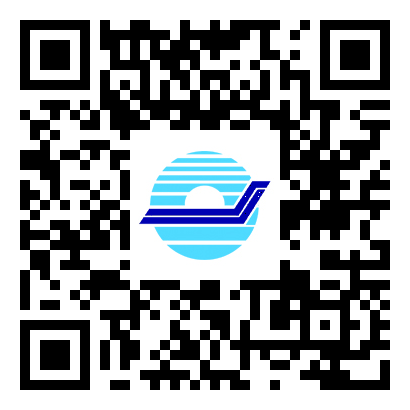
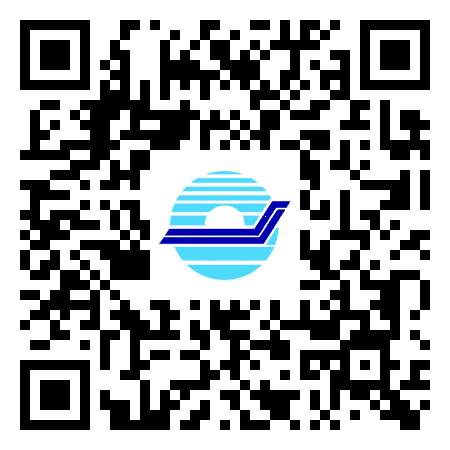
update qr code

diff --git a/application/controllers/EmailController.php b/application/controllers/EmailController.php
@@ -15,7 +15,22 @@ class EmailController extends CI_Controller{
    
         $this->load->library('ciqrcode');
         $this->load->library('image_lib');
-        $params['data'] = 'https://www.youtube.com/watch?v=tcb90H-FtRU';
+        
+        $this->db->select('*');
+        $this->db->where('id_upload', '24');
+        $data = $this->db->get('upload');
+        foreach($data->result_array() as $d)
+        {
+        
+        $urlfile = 'uploads/';
+        $namefile = $d['file'];
+        $loadfile = $urlfile.$namefile;
+        
+ 
+        
+        
+        
+        $params['data'] = base_url ().$loadfile;
         $params['level'] = 'H';
         $params['size'] = 50;
         $params['savename'] = FCPATH.'asd.png';
@@ -44,6 +59,7 @@ class EmailController extends CI_Controller{
             $response['wm_status'] = 'success';
         }
         echo json_encode($response);
+    }
         
     
     }

diff --git a/application/config/config.php b/application/config/config.php
@@ -23,7 +23,7 @@ defined('BASEPATH') OR exit('No direct script access allowed');
 | a PHP script and you can easily do that on your own.
 |
 */
-$config['base_url'] = 'http://localhost/AOT-Document/';
+$config['base_url'] = 'http://172.20.10.13/AOT-Document/';
 
 /*
 |--------------------------------------------------------------------------
